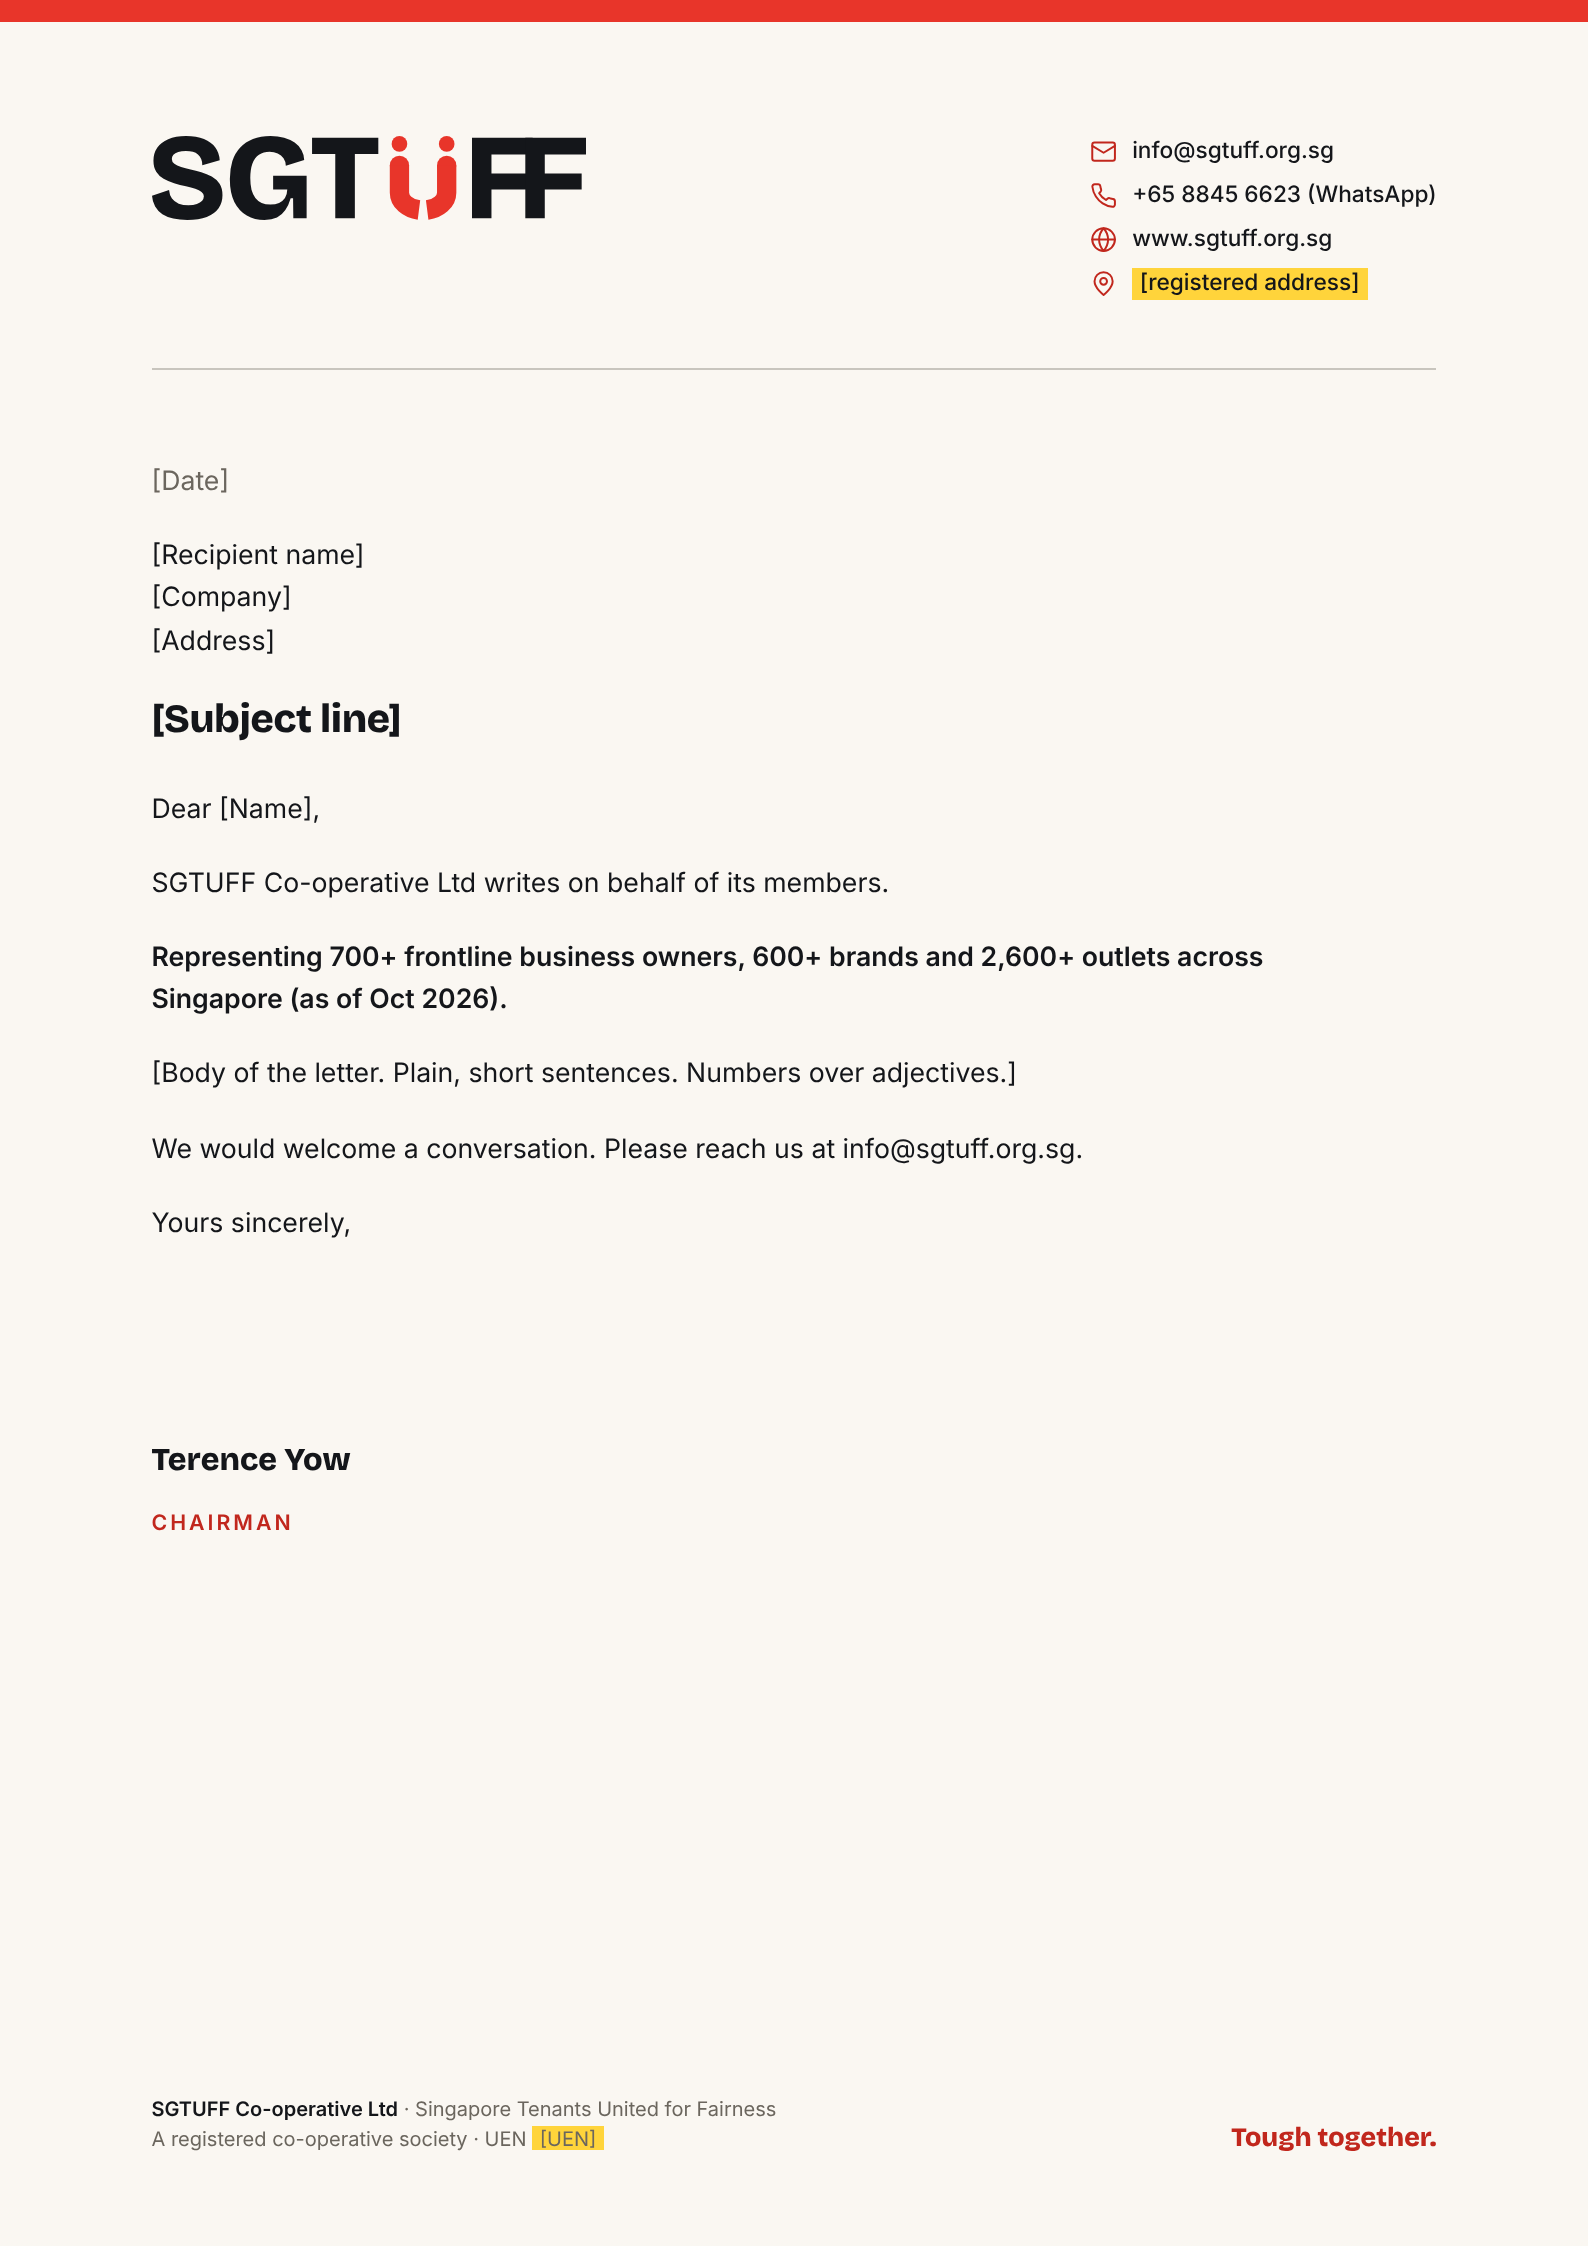
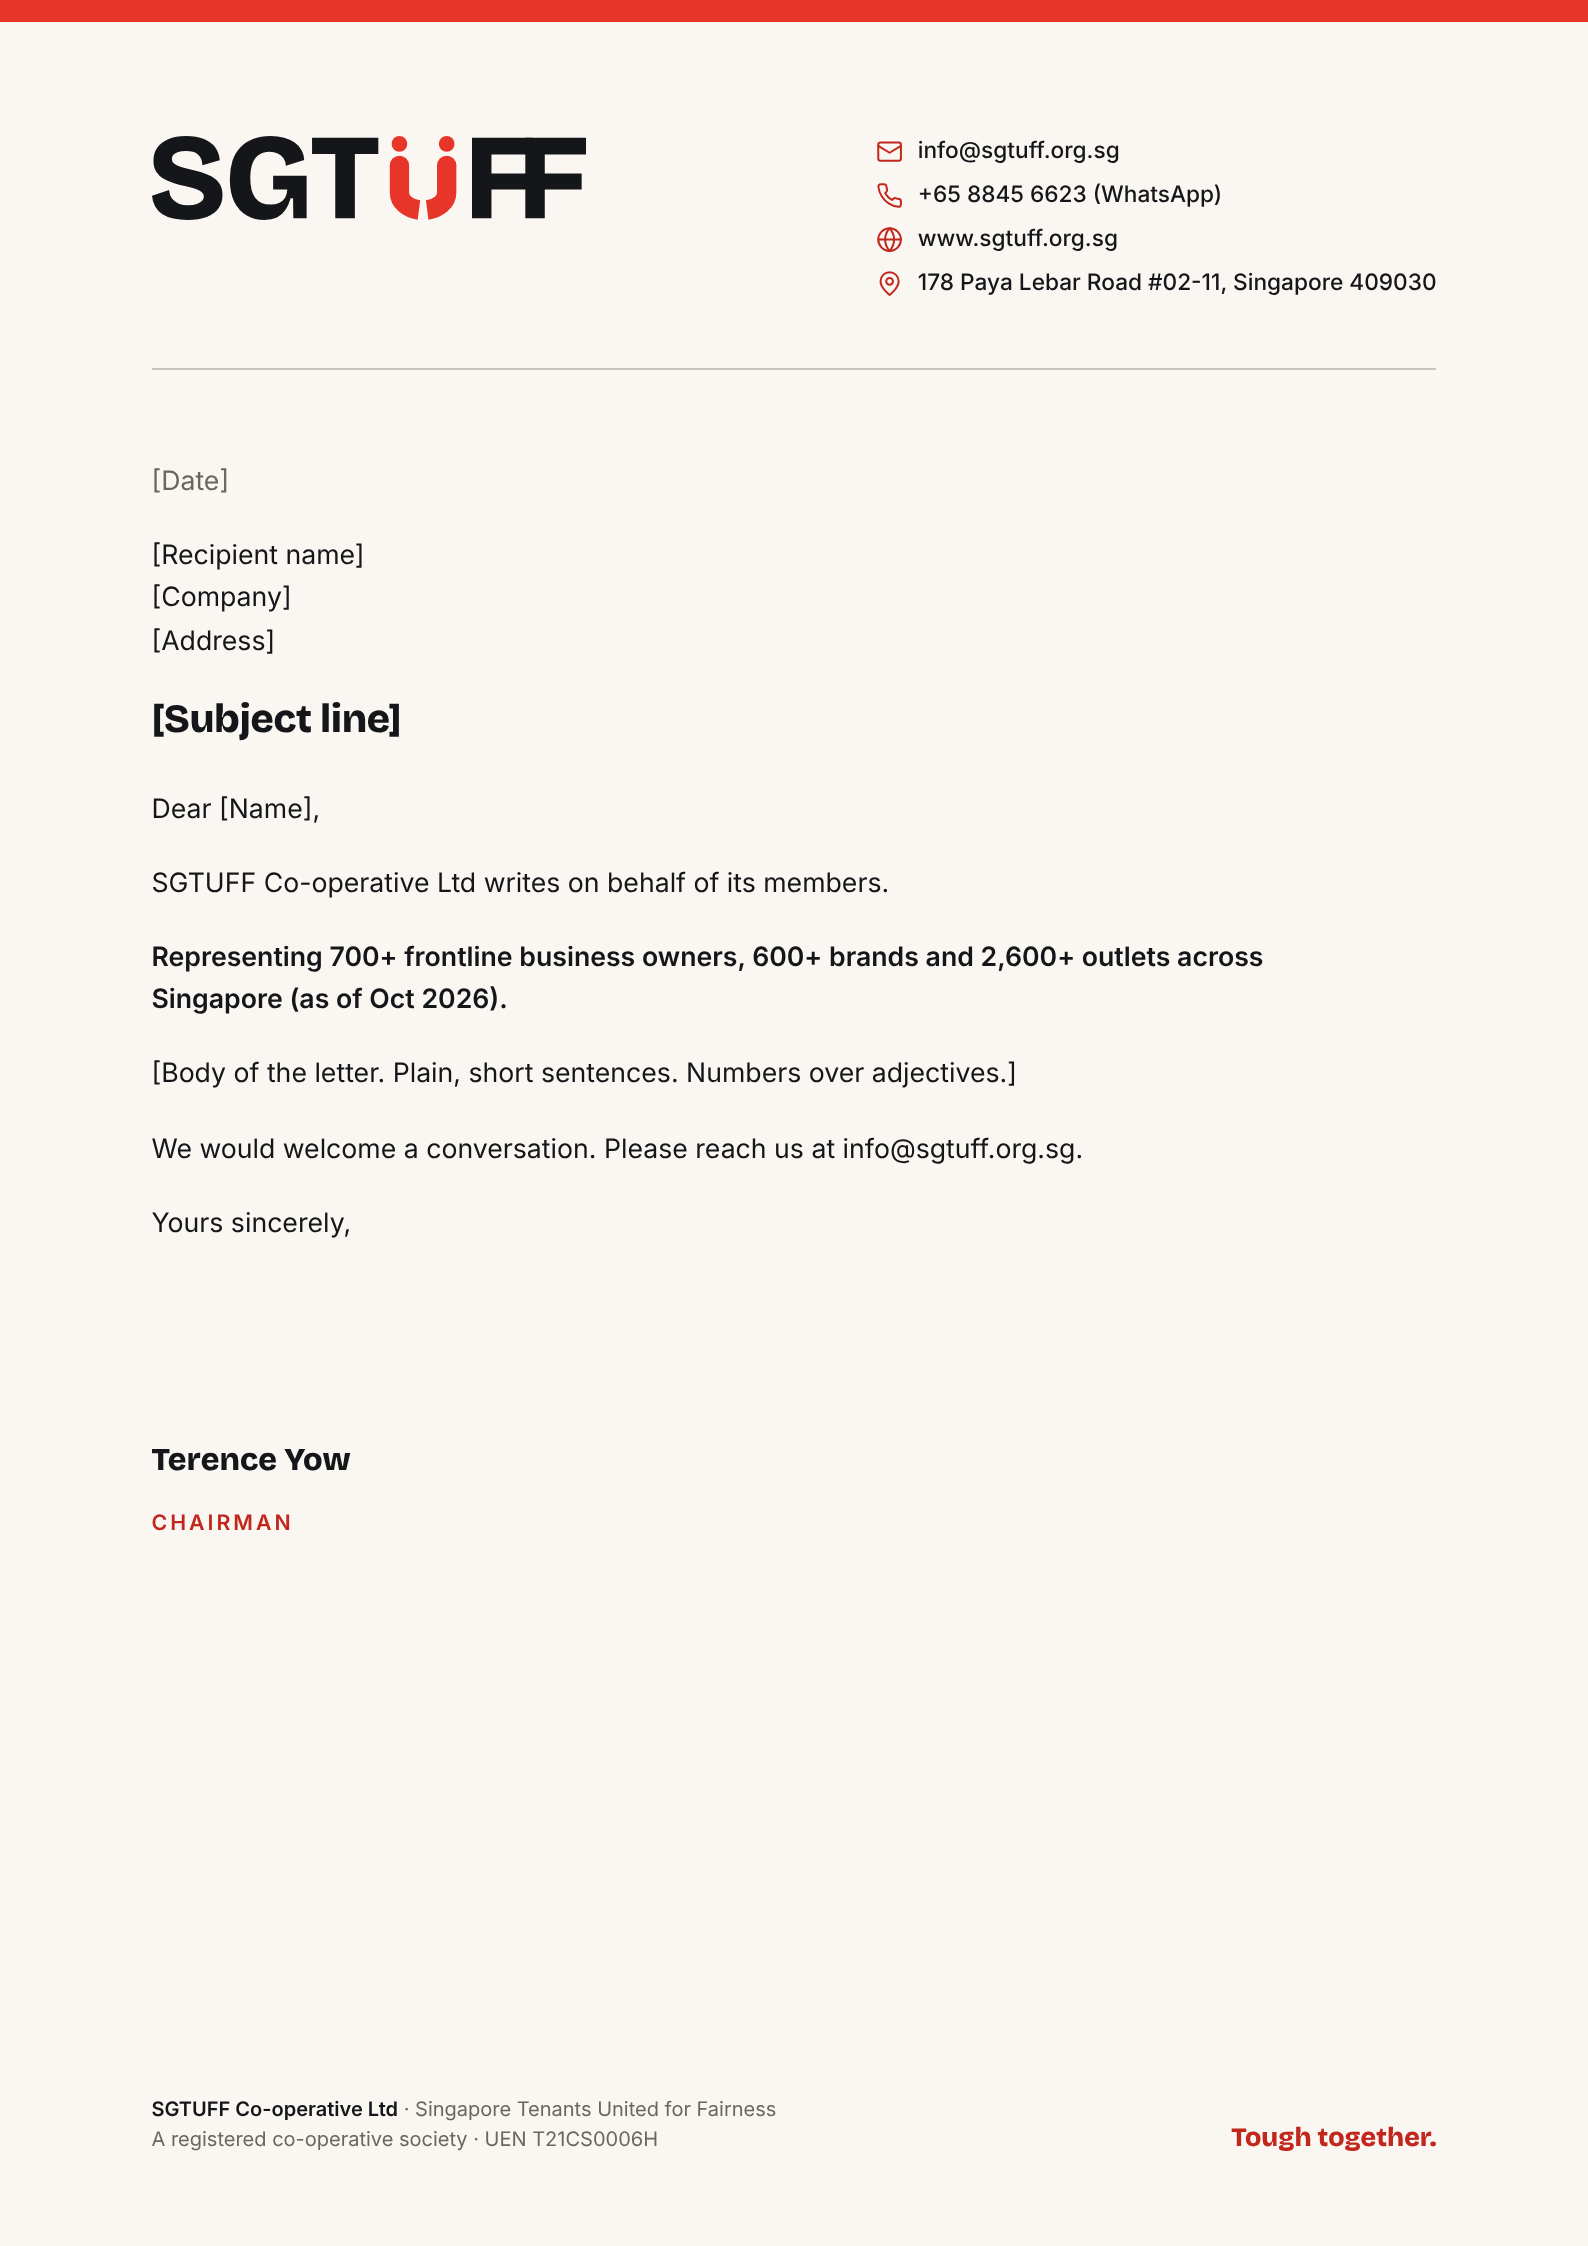
Add UEN T21CS0006H and registered address; use sgtuff.org.sg domain
Source: Registry of Co-operative Societies mailing list (4 Aug 2026).

Claude-Session: https://claude.ai/code/session_01TPaa9MPFXYTdpN76XjCpvL

Changed region(s): [[0.5554, 0.0623, 0.8948, 0.1558], [0.3394, 0.935, 0.4011, 0.9662]]

diff --git a/collateral/print/fact-sheet.html b/collateral/print/fact-sheet.html
@@ -63,7 +63,7 @@ body{background:#EFEAE2;font-family:var(--font-text);color:var(--ink);padding:32
 </div>
 <div class="call"><div><b>Lease renewal coming up?</b><p>Send us your offer letter. We will benchmark it in 48 hours.</p></div><span>WhatsApp +65 8845 6623</span></div>
 <div class="ft"><div><ul><li><svg class="ic" viewBox="0 0 24 24" fill="none" stroke="currentColor" stroke-width="1.75" stroke-linecap="round" stroke-linejoin="round" aria-hidden="true"><rect x="2" y="4" width="20" height="16" rx="2"/><path d="m22 7-10 6L2 7"/></svg>info@sgtuff.org.sg</li><li><svg class="ic" viewBox="0 0 24 24" fill="none" stroke="currentColor" stroke-width="1.75" stroke-linecap="round" stroke-linejoin="round" aria-hidden="true"><path d="M22 16.9v3a2 2 0 0 1-2.2 2 19.8 19.8 0 0 1-8.6-3.1 19.5 19.5 0 0 1-6-6A19.8 19.8 0 0 1 2.1 4.2 2 2 0 0 1 4.1 2h3a2 2 0 0 1 2 1.7c.1 1 .4 1.9.7 2.8a2 2 0 0 1-.5 2.1L8.1 9.9a16 16 0 0 0 6 6l1.3-1.2a2 2 0 0 1 2.1-.4c.9.3 1.8.6 2.8.7a2 2 0 0 1 1.7 2z"/></svg>+65 8845 6623 (WhatsApp)</li><li><svg class="ic" viewBox="0 0 24 24" fill="none" stroke="currentColor" stroke-width="1.75" stroke-linecap="round" stroke-linejoin="round" aria-hidden="true"><circle cx="12" cy="12" r="10"/><path d="M2 12h20M12 2a15.3 15.3 0 0 1 4 10 15.3 15.3 0 0 1-4 10 15.3 15.3 0 0 1-4-10 15.3 15.3 0 0 1 4-10z"/></svg>www.sgtuff.org.sg</li></ul>
-<p class="legal">Logos and photos for media: www.sgtuff.org.sg/brand · UEN <span class="ph">[UEN]</span></p></div>
+<p class="legal">Logos and photos for media: www.sgtuff.org.sg/brand · UEN T21CS0006H · 178 Paya Lebar Road #02-11, Singapore 409030</p></div>
 <div class="q"><svg xmlns="http://www.w3.org/2000/svg" viewBox="0 0 29 29" class="qr" shape-rendering="crispEdges"><path class="qrline" stroke="#14161a" d="M0 0.5h7m2 0h1m3 0h1m4 0h3m1 0h7m-29 1h1m5 0h1m1 0h2m1 0h5m2 0h1m1 0h1m1 0h1m5 0h1m-29 1h1m1 0h3m1 0h1m1 0h1m1 0h2m1 0h1m1 0h1m2 0h1m3 0h1m1 0h3m1 0h1m-29 1h1m1 0h3m1 0h1m3 0h1m1 0h2m2 0h5m1 0h1m1 0h3m1 0h1m-29 1h1m1 0h3m1 0h1m5 0h1m6 0h1m2 0h1m1 0h3m1 0h1m-29 1h1m5 0h1m2 0h2m1 0h3m2 0h4m1 0h1m5 0h1m-29 1h7m1 0h1m1 0h1m1 0h1m1 0h1m1 0h1m1 0h1m1 0h1m1 0h7m-20 1h3m1 0h7m-19 1h3m1 0h2m3 0h5m1 0h4m6 0h2m-27 1h1m2 0h2m3 0h1m1 0h5m1 0h6m1 0h2m2 0h1m-26 1h4m3 0h1m2 0h2m1 0h1m1 0h1m3 0h1m1 0h1m2 0h1m-25 1h3m2 0h2m1 0h1m1 0h1m2 0h1m3 0h1m2 0h1m1 0h1m2 0h1m-27 1h1m2 0h5m1 0h2m3 0h2m1 0h3m1 0h1m2 0h3m-25 1h2m1 0h2m3 0h2m1 0h1m2 0h2m2 0h2m1 0h2m1 0h1m-28 1h1m1 0h1m2 0h1m1 0h3m1 0h1m1 0h1m1 0h1m2 0h3m1 0h3m1 0h2m-29 1h2m2 0h1m4 0h1m3 0h4m2 0h4m1 0h2m1 0h2m-29 1h3m2 0h2m1 0h1m1 0h2m1 0h2m3 0h1m1 0h2m1 0h3m1 0h1m-24 1h1m2 0h1m1 0h1m4 0h1m6 0h1m1 0h1m2 0h1m-27 1h1m1 0h1m1 0h3m2 0h6m2 0h2m1 0h1m1 0h1m3 0h1m-25 1h2m1 0h1m4 0h1m3 0h6m1 0h3m1 0h2m1 0h1m-28 1h2m1 0h1m1 0h1m3 0h3m1 0h2m1 0h11m-20 1h2m1 0h2m3 0h5m3 0h2m1 0h2m-29 1h7m2 0h2m1 0h3m3 0h3m1 0h1m1 0h1m1 0h2m-28 1h1m5 0h1m1 0h1m2 0h2m1 0h1m5 0h1m3 0h1m2 0h2m-29 1h1m1 0h3m1 0h1m2 0h1m3 0h1m1 0h1m2 0h1m1 0h7m-27 1h1m1 0h3m1 0h1m1 0h1m1 0h1m1 0h2m3 0h1m1 0h1m4 0h2m1 0h1m-28 1h1m1 0h3m1 0h1m1 0h1m2 0h1m4 0h3m1 0h1m2 0h1m2 0h1m1 0h1m-29 1h1m5 0h1m1 0h1m1 0h3m1 0h2m4 0h2m2 0h2m1 0h1m-28 1h7m5 0h1m3 0h1m1 0h6m1 0h1m1 0h1"/></svg>Join</div></div>
 </div></div>
 </body></html>

diff --git a/collateral/letterhead.html b/collateral/letterhead.html
@@ -40,7 +40,7 @@ footer .tag{font:800 10pt var(--font-display);color:var(--tuff-red-ink);white-sp
       <li><svg class="ic" viewBox="0 0 24 24" fill="none" stroke="currentColor" stroke-width="1.75" stroke-linecap="round" stroke-linejoin="round" aria-hidden="true"><rect x="2" y="4" width="20" height="16" rx="2"/><path d="m22 7-10 6L2 7"/></svg><span>info@sgtuff.org.sg</span></li>
       <li><svg class="ic" viewBox="0 0 24 24" fill="none" stroke="currentColor" stroke-width="1.75" stroke-linecap="round" stroke-linejoin="round" aria-hidden="true"><path d="M22 16.9v3a2 2 0 0 1-2.2 2 19.8 19.8 0 0 1-8.6-3.1 19.5 19.5 0 0 1-6-6A19.8 19.8 0 0 1 2.1 4.2 2 2 0 0 1 4.1 2h3a2 2 0 0 1 2 1.7c.1 1 .4 1.9.7 2.8a2 2 0 0 1-.5 2.1L8.1 9.9a16 16 0 0 0 6 6l1.3-1.2a2 2 0 0 1 2.1-.4c.9.3 1.8.6 2.8.7a2 2 0 0 1 1.7 2z"/></svg><span>+65 8845 6623 (WhatsApp)</span></li>
       <li><svg class="ic" viewBox="0 0 24 24" fill="none" stroke="currentColor" stroke-width="1.75" stroke-linecap="round" stroke-linejoin="round" aria-hidden="true"><circle cx="12" cy="12" r="10"/><path d="M2 12h20M12 2a15.3 15.3 0 0 1 4 10 15.3 15.3 0 0 1-4 10 15.3 15.3 0 0 1-4-10 15.3 15.3 0 0 1 4-10z"/></svg><span>www.sgtuff.org.sg</span></li>
-      <li><svg class="ic" viewBox="0 0 24 24" fill="none" stroke="currentColor" stroke-width="1.75" stroke-linecap="round" stroke-linejoin="round" aria-hidden="true"><path d="M20 10c0 6-8 12-8 12S4 16 4 10a8 8 0 0 1 16 0z"/><circle cx="12" cy="10" r="3"/></svg><span class="todo">[registered address]</span></li>
+      <li><svg class="ic" viewBox="0 0 24 24" fill="none" stroke="currentColor" stroke-width="1.75" stroke-linecap="round" stroke-linejoin="round" aria-hidden="true"><path d="M20 10c0 6-8 12-8 12S4 16 4 10a8 8 0 0 1 16 0z"/><circle cx="12" cy="10" r="3"/></svg>178 Paya Lebar Road #02-11, Singapore 409030</li>
     </ul>
   </header>
   <hr>
@@ -57,7 +57,7 @@ footer .tag{font:800 10pt var(--font-display);color:var(--tuff-red-ink);white-sp
     <div class="sign"><div class="sig-line"></div><p class="name">Terence Yow</p><p class="role">Chairman</p></div>
   </div>
   <footer>
-    <div><strong>SGTUFF Co-operative Ltd</strong> · Singapore Tenants United for Fairness<br>A registered co-operative society · UEN <span class="todo">[UEN]</span></div>
+    <div><strong>SGTUFF Co-operative Ltd</strong> · Singapore Tenants United for Fairness<br>A registered co-operative society · UEN T21CS0006H</div>
     <div class="tag">Tough together.</div>
   </footer>
 </main></body></html>

diff --git a/collateral/index.html b/collateral/index.html
@@ -37,5 +37,5 @@ footer{margin-top:48px;font-size:13px;color:var(--stone);line-height:1.6}
 <a class="card" href="event/event-kit.html"><div class="th"><img src="event/exports/rollup-850x2000mm.png" alt="" loading="lazy"></div><p class="g">Events</p><h2>Event kit</h2><p>Backdrop, roll-up banner, four name badges.</p></a>
 <a class="card" href="video/video-backgrounds.html"><div class="th"><img src="video/exports/video-bg-paper.png" alt="" loading="lazy"></div><p class="g">Video</p><h2>Video call backgrounds</h2><p>Paper and Ink, 1920 × 1080.</p></a>
 </div>
-<footer>Highlighted fields like [UEN] and [Member name] are filled in before use. Decks live as Slides artifacts: Stakeholder Briefing and Member Pitch.</footer>
+<footer>Highlighted fields like [Member name] and [Date] are filled in before use. Decks live as Slides artifacts: Stakeholder Briefing and Member Pitch.</footer>
 </main></body></html>

diff --git a/CLAUDE.md b/CLAUDE.md
@@ -7,5 +7,6 @@ This repo is the **source of truth for the SGTUFF brand** (v2, locked 23 Oct 202
 - Use the tokens in `tokens/` or `tailwind.preset.js`. Do not invent new colours or fonts.
 - `legacy-v1/` is archived. Do not copy its colours (navy, gold, crimson), fonts (Cinzel, Plus Jakarta Sans) or claims ("statutory", "MCCY-compliant", "official partnerships").
 - Factual claims: Terence Yow is Chairman and holds the Fair Tenancy Industry Committee appointment. Describe SGTUFF as a registered co-operative society, not a statutory body.
+- Legal details: SGTUFF Co-operative Limited, UEN T21CS0006H, registered address 178 Paya Lebar Road #02-11, Singapore 409030. Registered 7 Jan 2021 (Registry of Co-operative Societies list). Domain: sgtuff.org.sg.
 - Member count: use only this baseline, verbatim: "Representing 700+ frontline business owners, 600+ brands and 2,600+ outlets across Singapore (as of Oct 2026)." Always show the "as of" date. Do not use the older 1,000+ figure.
 - Voice: plain, short sentences; numbers over adjectives; firm, never shrill.
